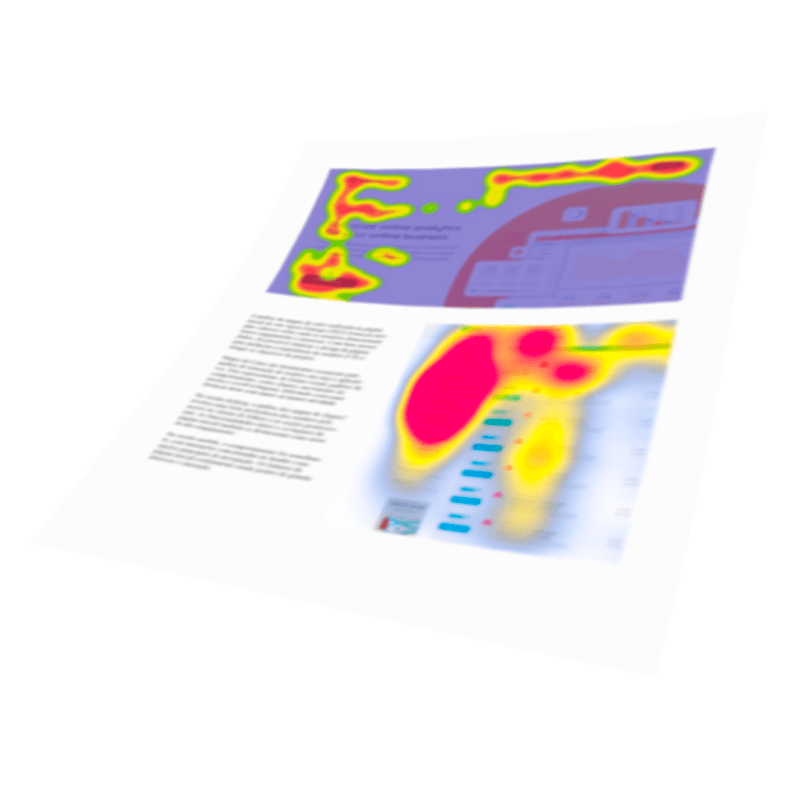
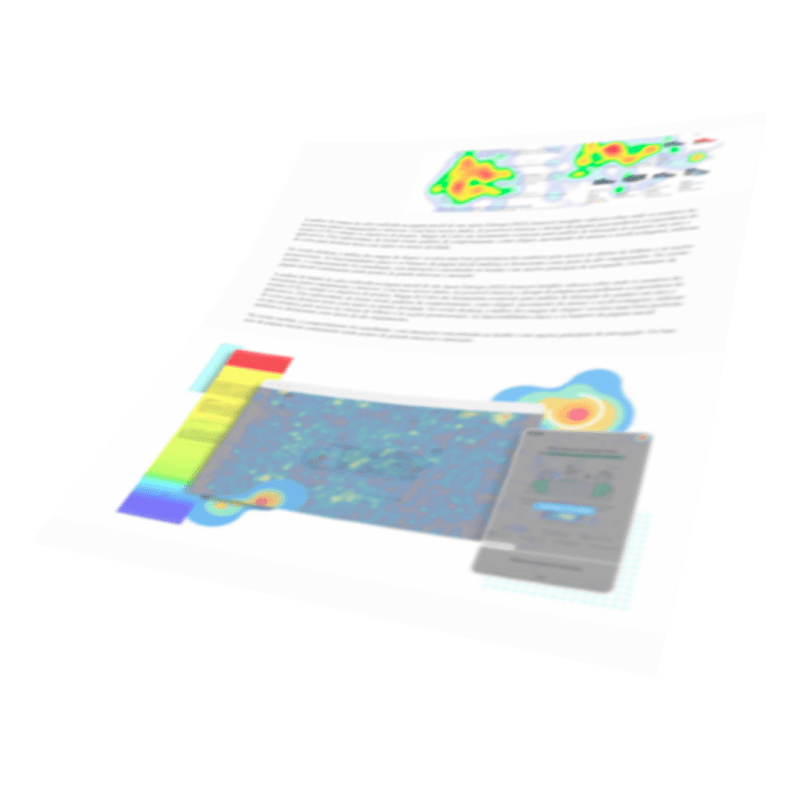
Add files via upload

Changed region(s): [[0.125, 0.1504, 0.9062, 0.7519]]

diff --git a/revisao-ux-ui-apoio-entrega.html b/revisao-ux-ui-apoio-entrega.html
@@ -285,9 +285,9 @@
 
 
     <div class="banner--projeto" id="revisao-apoio-home-site_heatmap">
-      <img src="imgs/revisao-ux-ui-apoio-entrega/design-interface-ux-ui--bg--heatmap_click.png" id="revisao-apoio-home-site_heatmap_01" alt="XXXXXX">
-      <img src="imgs/revisao-ux-ui-apoio-entrega/design-interface-ux-ui--bg--heatmap_scroll.png" id="revisao-apoio-home-site_heatmap_02" alt="XXXXXX">
-      <img src="imgs/revisao-ux-ui-apoio-entrega/design-interface-ux-ui--bg--heatmap_move.png" id="revisao-apoio-home-site_heatmap_03" alt="XXXXXX">
+      <img src="imgs/revisao-ux-ui-apoio-entrega/design-interface-ux-ui--bg--heatmap_click.png" id="revisao-apoio-home-site_heatmap_01" alt="Relatórios mapa de calor">
+      <img src="imgs/revisao-ux-ui-apoio-entrega/design-interface-ux-ui--bg--heatmap_scroll.png" id="revisao-apoio-home-site_heatmap_02" alt="Relatórios mapa de calor">
+      <img src="imgs/revisao-ux-ui-apoio-entrega/design-interface-ux-ui--bg--heatmap_move.png" id="revisao-apoio-home-site_heatmap_03" alt="Relatórios mapa de calor">
     </div>
 
 
@@ -366,7 +366,14 @@
             </button>
           </div>
         </div>
+      </div>
+      <!-- image mockups heatmap -->
 
+
+      <div class="banner--projeto" id="revisao-apoio-home-site_search">
+        <img src="imgs/revisao-ux-ui-apoio-entrega/design-interface-ux-ui--bg--search-3.png" id="revisao-apoio-home-site_search-3" alt="Planejamento Matriz CSD">
+        <img src="imgs/revisao-ux-ui-apoio-entrega/design-interface-ux-ui--bg--search-2.png" id="revisao-apoio-home-site_search-2" alt="Planejamento Matriz CSD">
+        <img src="imgs/revisao-ux-ui-apoio-entrega/design-interface-ux-ui--bg--search-1.png" id="revisao-apoio-home-site_search-1" alt="Planejamento Matriz CSD">
       </div>
     </div>
   </div>
@@ -529,11 +536,11 @@
     </div>
   </div>
 
+  
 
-  <!-- criar imagens da etapa de pesquisa (mockup) animado + configurar script******** -->
+  <!-- ajustar imagens bg search: tablet and mobile + sem script******** -->
   <!-- conteúdo do bottom sheet, e imagens desktop (proporção) -->
-  <!-- Verificar erro no menu mobile (bottom menu) na estilização dos botões, tamanho divergente -->
-  <!-- aumtentar margem inferior do botão de volta ao topo (mobile) -->
+  
 
   <!-- super banner mobile -->
   <!-- menu mobile, links ajustar nomes, aria label, alt text, title -->
@@ -541,6 +548,7 @@
   <!-- footer, links -->
   <!-- animação: seja bem vindo(a), welcome -->
 
+  <!-- ****Validar**** aumtentar margem inferior do botão de volta ao topo (mobile) -->
 
   <!-- project -->
   <div class="cb--content" id="cb_project-content">

diff --git a/css/style-larger.css b/css/style-larger.css
@@ -282,7 +282,8 @@
   }
 
   /* image bg content - heatmap */
-  .cb--content #revisao-apoio-home-site_heatmap {
+  .cb--content #revisao-apoio-home-site_heatmap,
+  .cb--content #revisao-apoio-home-site_search {
     display: flex;
     flex-direction: column;
     justify-content: flex-end;
@@ -306,6 +307,29 @@
   }
   .cb--content #revisao-apoio-home-site_heatmap #revisao-apoio-home-site_heatmap_03 {
     z-index: 1;
+  }
+  /* image bg content - search */
+  .cb--content #revisao-apoio-home-site_search #revisao-apoio-home-site_search-3,
+  .cb--content #revisao-apoio-home-site_search #revisao-apoio-home-site_search-2,
+  .cb--content #revisao-apoio-home-site_search #revisao-apoio-home-site_search-1 {
+    position: absolute;
+    z-index: -1;
+    opacity: 50%;
+  }
+  .cb--content #revisao-apoio-home-site_search #revisao-apoio-home-site_search-3 {
+    width: 21vw;
+    right: 250px;
+    margin-bottom: 5vw;
+  }
+  .cb--content #revisao-apoio-home-site_search #revisao-apoio-home-site_search-2 {
+    width: 18vw;
+    right: -21px;
+    margin-bottom: 0;
+  }
+  .cb--content #revisao-apoio-home-site_search #revisao-apoio-home-site_search-1 {
+    width: 12vw;
+    right: 70px;
+    margin-bottom: 9vw;
   }
 
 
@@ -756,10 +780,38 @@
   .cb--content #revisao-apoio-home-site_heatmap #revisao-apoio-home-site_heatmap_03 {
     z-index: 1;
   }
+  /* image bg content - search */
+  .cb--content #revisao-apoio-home-site_search #revisao-apoio-home-site_search-3,
+  .cb--content #revisao-apoio-home-site_search #revisao-apoio-home-site_search-2,
+  .cb--content #revisao-apoio-home-site_search #revisao-apoio-home-site_search-1 {
+    position: absolute;
+    z-index: -1;
+    opacity: 50%;
+  }
+  .cb--content #revisao-apoio-home-site_search #revisao-apoio-home-site_search-3 {
+    width: 23vw;
+    right: 217px;
+    margin-bottom: 0;
+    margin-top: -9vw;
+  }
+  .cb--content #revisao-apoio-home-site_search #revisao-apoio-home-site_search-2 {
+    width: 20vw;
+    right: -17px;
+    margin-bottom: 0;
+    margin-top: 3vw;
+  }
+  .cb--content #revisao-apoio-home-site_search #revisao-apoio-home-site_search-1 {
+    width: 14vw;
+    right: 50px;
+    margin-bottom: 0vw;
+    margin-top: -12vw;
+  }
 
-#cb_heatmap {
-  padding: 10% 0 0 0;
-}
+
+
+  #cb_heatmap {
+    padding: 10% 0 0 0;
+  }
 
 
   /* Results */

diff --git a/css/style-small.css b/css/style-small.css
@@ -31,7 +31,7 @@
 
   /* button back to top */
   #cb_back-to-top {
-    bottom: 10%;
+    bottom: 12%;
     right: 3%;
   }
 
